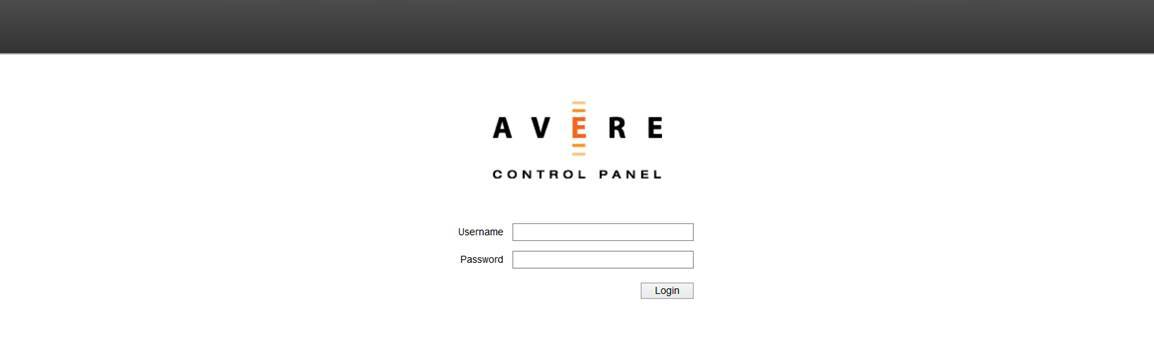
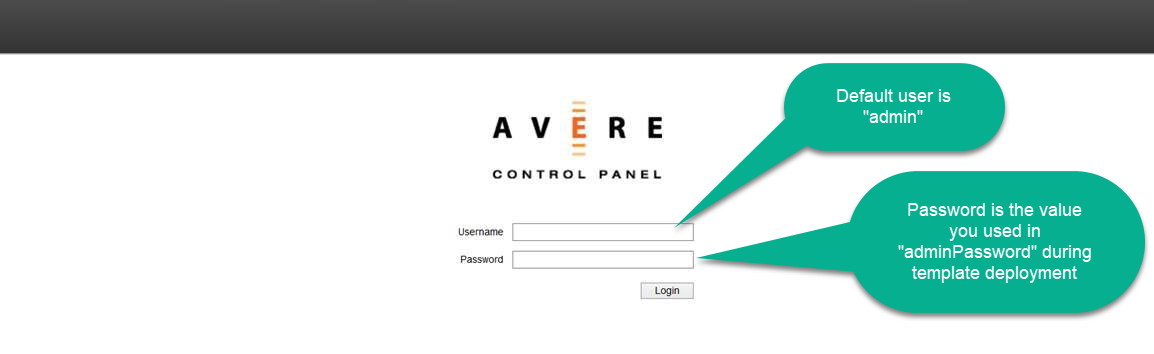
Including steps for SSH tunnel

Changed region(s): [[0.5615, 0.1554, 0.9983, 0.9011]]

diff --git a/docs/EstablishingSslVpn.md b/docs/EstablishingSslVpn.md
@@ -1,0 +1,37 @@
+# Establishing temporary SSH tunnel with Avere Controller VM
+
+This procedure shows a quick way to estabilsh a SSH tunnel between a Linux computer or Windows 10 running WSL (Windows Subsystem for Linux) in a way that this allows us to continue the Avere post-deployment steps if we don't have a VPN/Express Route connection with the  virtual network where Avere vFXT cluster is connected to.
+
+
+1. Make sure that you have access to the SSH Private key related to the SSH Public key used to run the Avere vFXT deployment template.
+2. Sign on to Azure Portal (https://porta.azure.com)
+3. Obtain the Avere vFXT management ip address by clicking "Resource Groups" in your left-hand side, selecting the resource group where you just deployed your Avere vFXT cluster, clicking "Deployments" then "Microsoft.Template" deployment.
+![image](./media/ssh-tunnel-0.png)
+4. When Microsoft.Template's "Deployment" blade appears, click "Outputs" and take note of the MGMT_IP field ip address. This ip address will be used in the ssh command line we will execute in a later step
+![image](./media/ssh-tunnel-0-1.png)
+5. Type the Avere controller VM name in the search field and click the VM in the search list
+![image](./media/ssh-tunnel-1.png)
+6. In the Virtual Machine blade, click "Connect" action and then on the right-hand side click in the "Copy" icon
+![image](./media/ssh-tunnel-2.png)
+7. In a bash command prompt (notice that this also works on Windows 10 WSL, this example is using Ubuntu on Windows 10), elevate your user as root
+```bash
+sudo su
+```
+8. Paste the clipboard contents and make sure that your command line looks similar to this one (with your own values):
+```bash
+ssh pmcadmin@23.96.41.80 -i /home/pmcadmin/.ssh/id_rsa_azure -L 443:10.10.0.5:443
+```
+Where
+![image](./media/ssh-tunnel-3.png)
+```
+1 = Command you copied from "Connect" button of Avere controller VM on step 6
+2 = Path for your SSH private key related to the public key you used to deploy Avere vFXT template
+3 = Port redirection to 443, it has the managament ip address you obtained while examining the template deployment output on step 4
+```
+9. Hit [ENTER] in order to connect to the controller VM and establish the SSH tunnel
+10. Open your browser and type https://127.0.0.1 in the address bar and hit [ENTER]
+![image](./media/ssh-tunnel-4.png)
+11. Avere vFXT deploys the management portal using a self signed certificate, a warning message will be shown, if using Edge, click on "Details" and then "Go to the webpage", make sure you use equivalent options on other browers.
+![image](./media/ssh-tunnel-5.png)
+12. Step 11 already proves that your SSH tunnel is working, please notice the callouts of the sign in page. Move forward with your [post deployment steps](./AverePostDeploymentSteps.md)
+![image](./media/ssh-tunnel-6.png)

diff --git a/README.md b/README.md
@@ -29,7 +29,7 @@ A sample deployment script called Deploy-AzureResourceGroup.sh is provided with 
     
 2. To get end to end automation with this template, please deploy one of the storage template solutions this Photoscan template was designed for: 
    * [Avere vFXT](https://github.com/Azure/Avere/tree/master/src/vfxt#experimental-avere-vfxt-controller-and-vfxt---arm-template-deployment)
-       *  After you deployed Avere vFXT, make sure you follow the steps documented [here](./docs/AverePostDeploymentSteps.md) to create NFS exports and Namespaces correctly.
+       *  After you deployed Avere vFXT, make sure you follow the steps documented [here](./docs/AverePostDeploymentSteps.md) to create NFS exports and Namespaces correctly. If you don't have VPN/Express route connectivity to the virtual network where Avere vFXT cluster was deployed, please follow the steps outlined [here](./docs/EstablishingSslVpn.md) in order to establish a SSH tunnel and continue with the post-deployment tasks.
     
    * [BeeGFS](https://github.com/paulomarquesc/beegfs-template).
    
